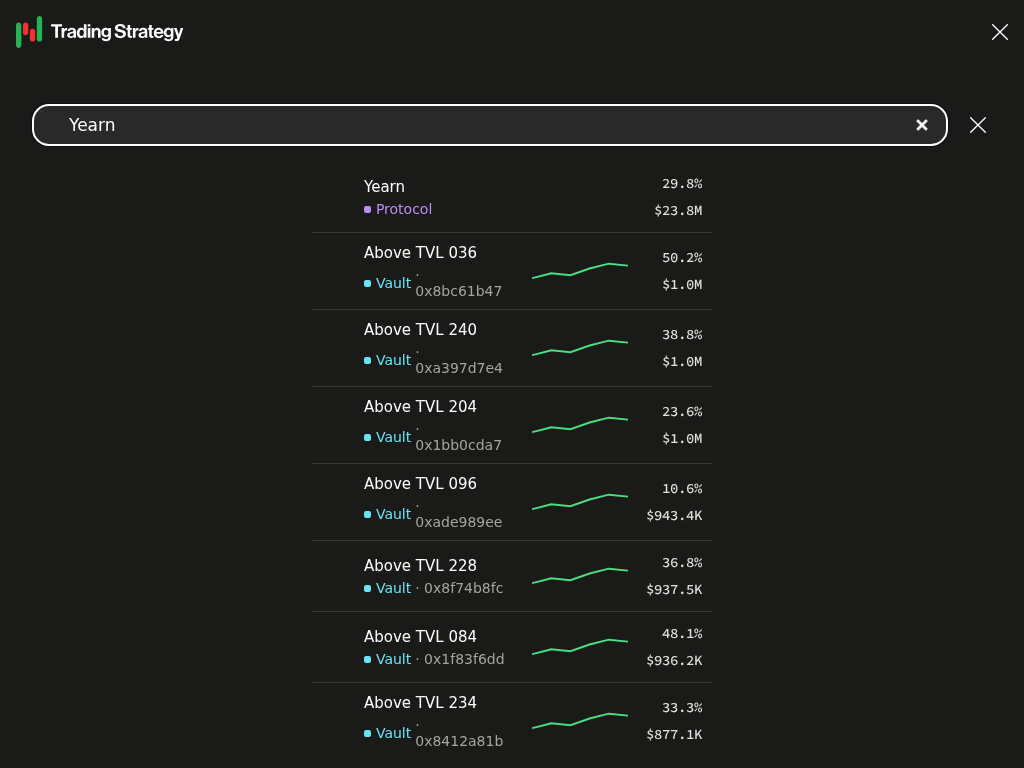
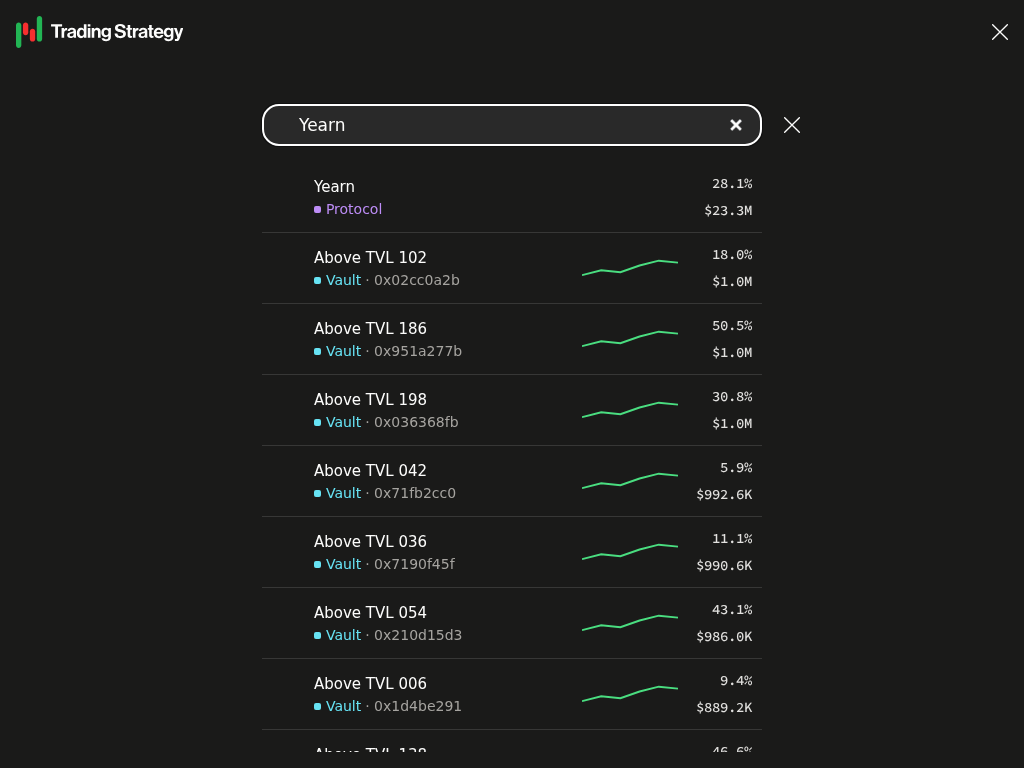
fix: align tablet search controls

diff --git a/tests/integration/navigation.test.ts b/tests/integration/navigation.test.ts
@@ -95,11 +95,15 @@ test.describe('navigation entity search', () => {
 
 			if (name === 'iPad landscape') {
 				const resultListBounds = await protocolResults.getByRole('listbox').boundingBox();
+				const searchBounds = await search.boundingBox();
 				const vaultNameBounds = await vaultResult.locator('.result-main').boundingBox();
 				const vaultSparklineBounds = await vaultResult.locator('.result-sparkline').boundingBox();
 				const vaultMetricsBounds = await vaultResult.locator('.metrics').boundingBox();
 				expect(resultListBounds).not.toBeNull();
-				expect(resultListBounds!.width).toBeLessThanOrEqual(400);
+				expect(searchBounds).not.toBeNull();
+				expect(resultListBounds!.width).toBeLessThanOrEqual(500);
+				expect(Math.abs(resultListBounds!.width - searchBounds!.width)).toBeLessThanOrEqual(1);
+				expect(Math.abs(resultListBounds!.x - searchBounds!.x)).toBeLessThanOrEqual(1);
 				expect(vaultNameBounds).not.toBeNull();
 				expect(vaultSparklineBounds).not.toBeNull();
 				expect(vaultMetricsBounds).not.toBeNull();

diff --git a/src/lib/search/components/Search.svelte b/src/lib/search/components/Search.svelte
@@ -526,8 +526,24 @@ underlying vault JSON index private.
 			margin-top: var(--space-md);
 		}
 		.results ul {
-			max-width: 25rem;
+			max-width: 31.25rem;
 			margin-inline: auto;
+		}
+	}
+
+	@media (--nav-collapsed) and (--viewport-sm-up) {
+		.mobile-search-row {
+			position: relative;
+			width: 31.25rem;
+			grid-template-columns: minmax(0, 1fr);
+			gap: 0;
+			margin-inline: auto;
+		}
+		.close-button {
+			position: absolute;
+			top: 0;
+			bottom: 0;
+			left: calc(100% + var(--space-md));
 		}
 	}
 
